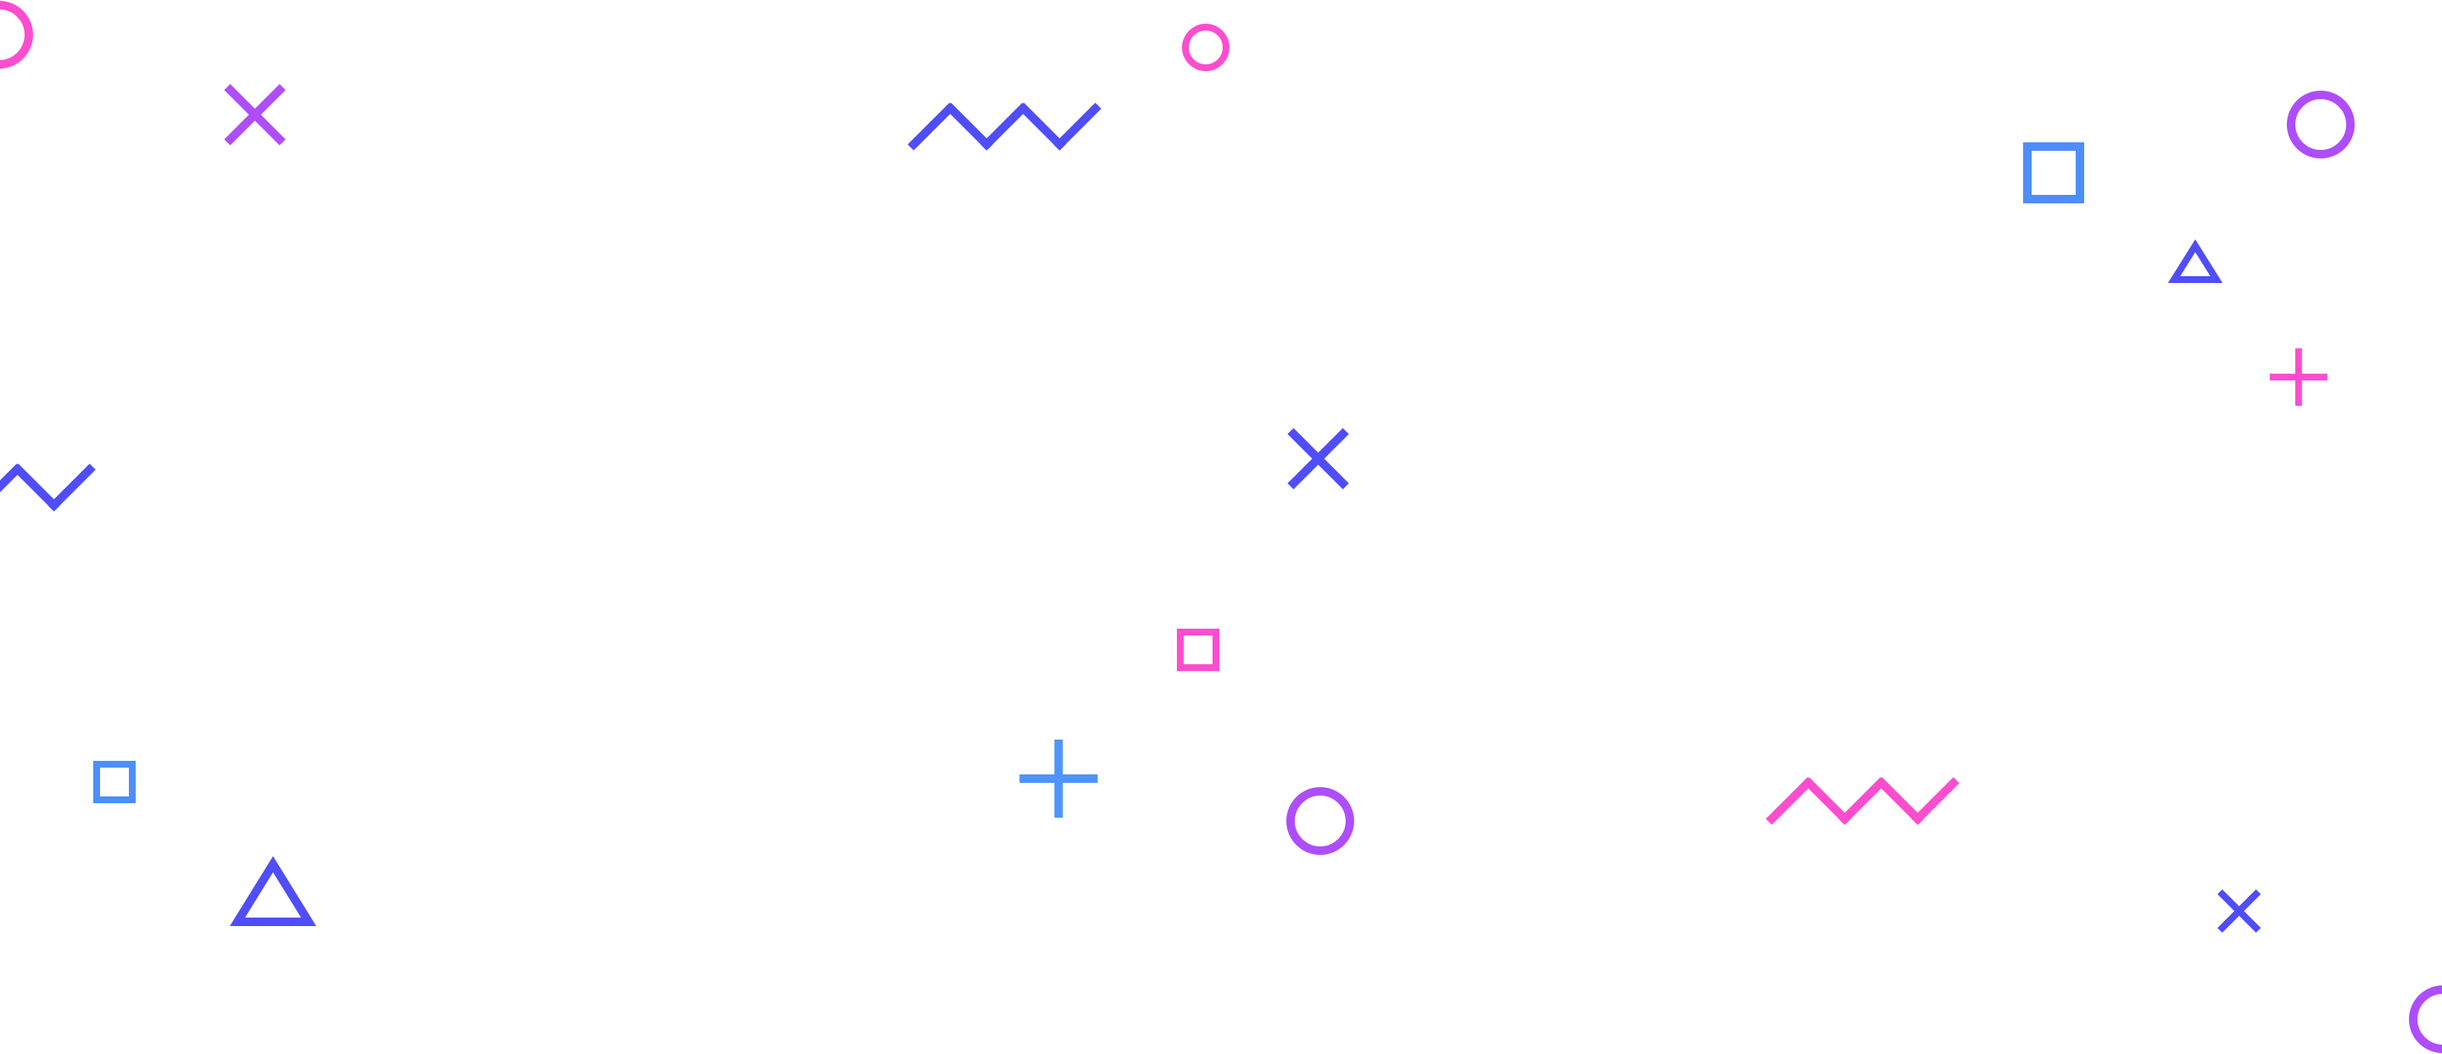
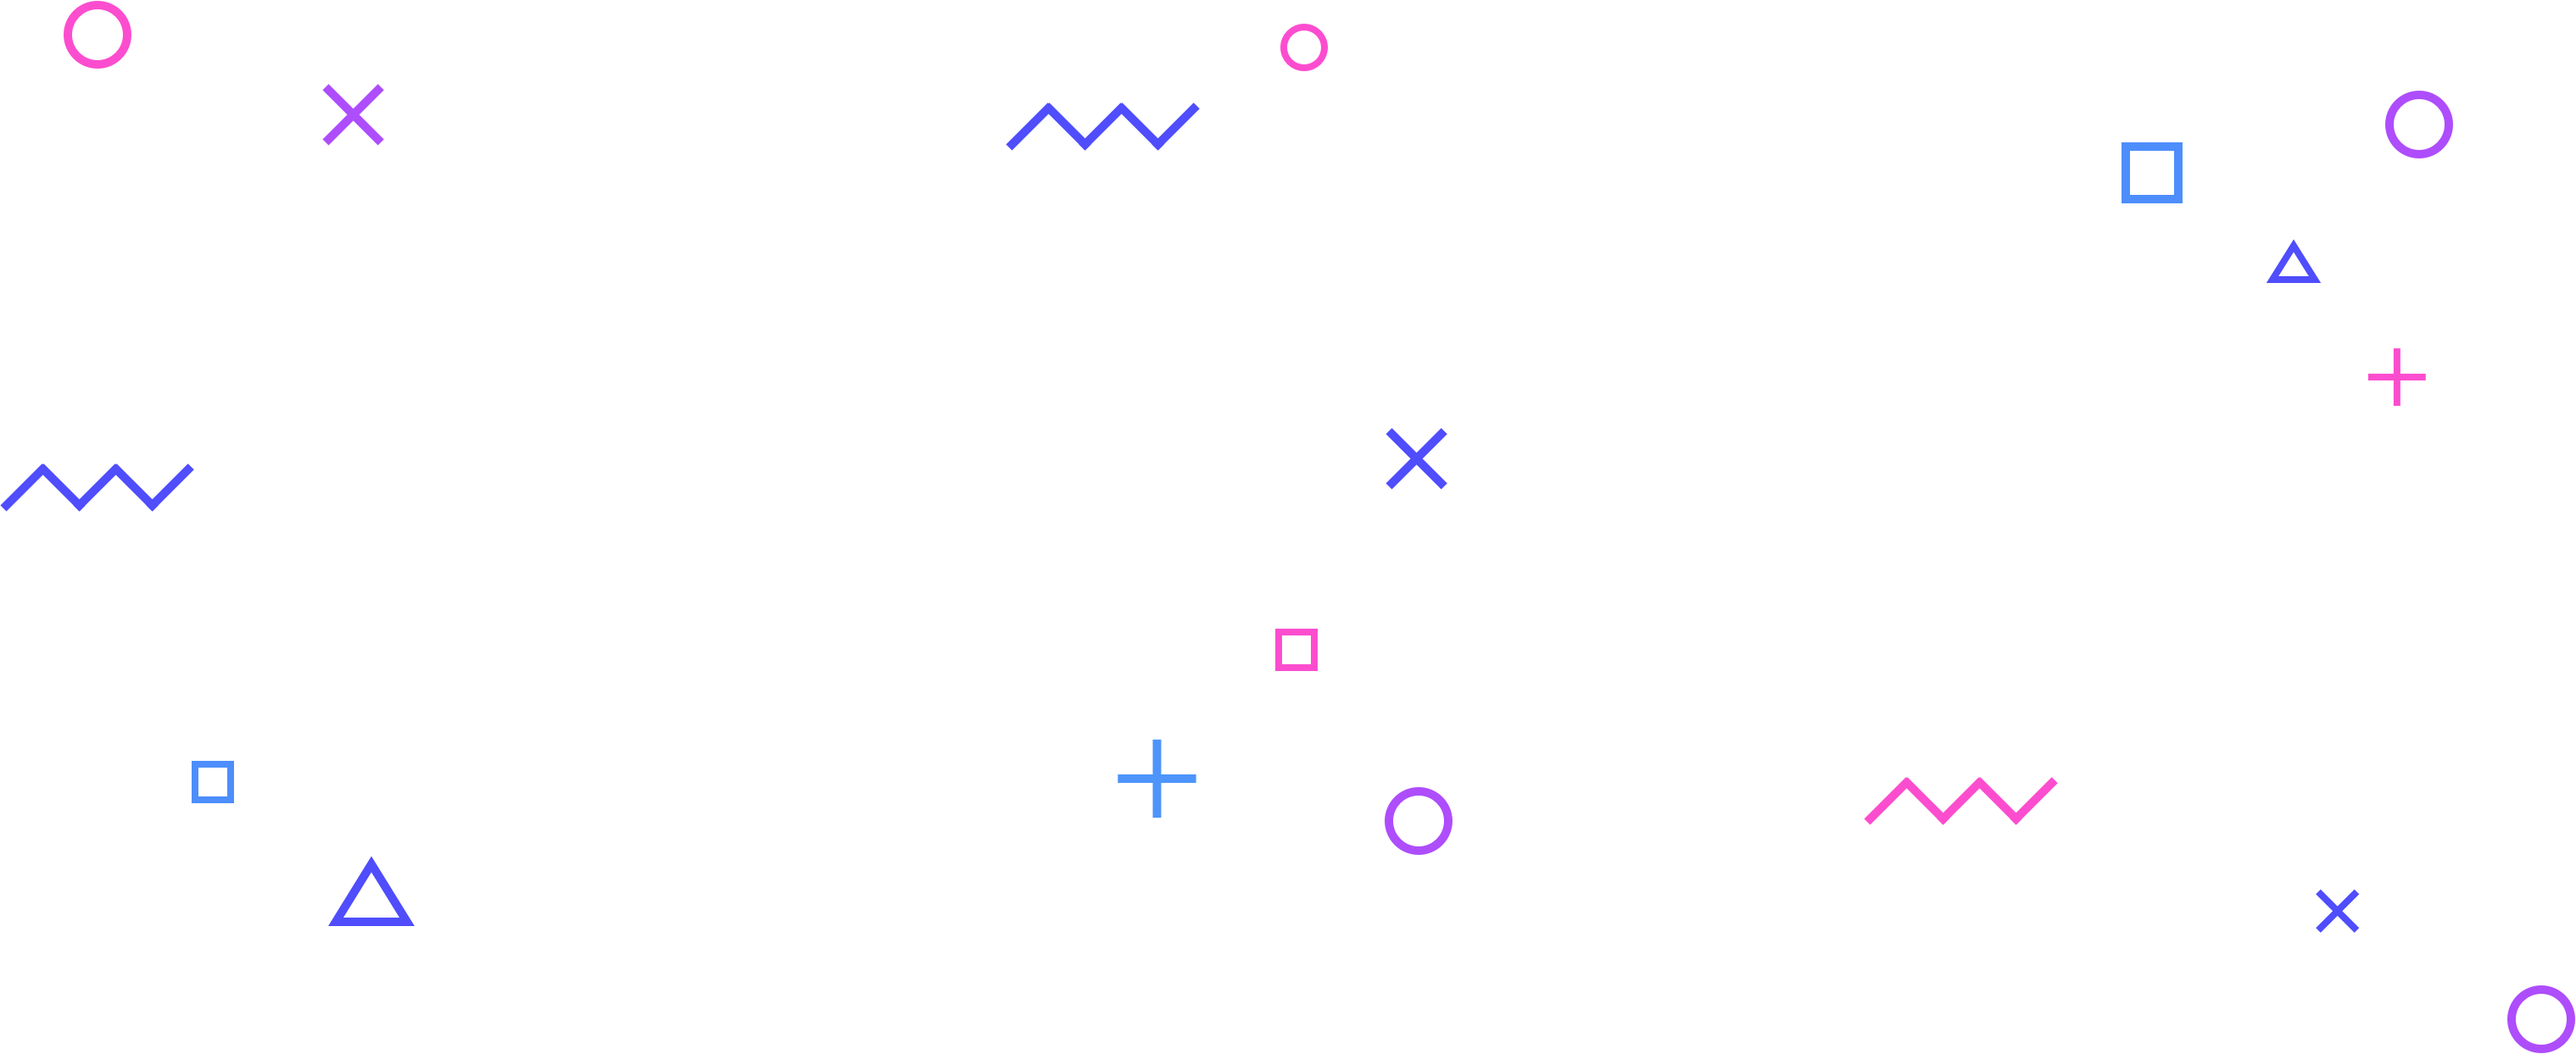
add bg shapes

diff --git a/app/css/style.css b/app/css/style.css
@@ -346,6 +346,14 @@ a:hover:before {
   padding: 40px;
   padding-top: 0;
   overflow: hidden; }
+  .header-bg {
+    display: none;
+    position: absolute;
+    top: 30px;
+    left: 50%;
+    transform: translateX(-53%);
+    height: 640px;
+    z-index: 2; }
   .header__logo {
     align-self: center;
     height: 30px;
@@ -505,6 +513,8 @@ a:hover:before {
   .header {
     padding: 40px 150px;
     padding-top: 0; }
+    .header-bg {
+      display: block; }
     .header__wrapper {
       height: 73px;
       position: fixed;
@@ -586,6 +596,15 @@ a:hover:before {
     line-height: 1.5;
     margin: 0; }
 
+.pricing-bg {
+  display: none;
+  position: absolute;
+  top: 60px;
+  left: 50%;
+  transform: translateX(-50%);
+  height: 776px;
+  z-index: 2; }
+
 .section-offer .section__text {
   padding: 0 50px; }
 
@@ -663,6 +682,8 @@ a:hover:before {
     font-size: 32px; }
   .section-offer .section__text {
     padding: 0 65px; }
+  .pricing-bg {
+    display: block; }
   .section-information .row {
     flex-direction: column;
     margin-left: -300px;

diff --git a/index.html b/index.html
@@ -12,6 +12,7 @@
 
   <body>
     <header class="header">
+      <img class="header-bg" src="app/images/shaped-pattern.png" alt="">
       <div class="header__wrapper" id="top">
         <div class="header__topbar" data-scroll-header>
           <a href="#top" class="header__link" data-scroll>
@@ -181,6 +182,7 @@
     </section>
 
     <section class="section section-pricing" id="pricing">
+      <img src="app/images/shaped-pattern-pricing.png" alt="" class="pricing-bg">
       <h2 class="section__title section__title--margin">Choose Your Pricing Plan</h2>
       <div class="row">
       <div class="box">

diff --git a/app/scss/sections/_header.scss b/app/scss/sections/_header.scss
@@ -5,6 +5,16 @@
   padding-top: 0;
   overflow: hidden;
 
+  &-bg {
+    display: none;
+    position: absolute;
+    top: 30px;
+    left: 50%;
+    transform: translateX(-53%);
+    height: 640px;
+    z-index: 2;
+  }
+
   &__logo {
     align-self: center;
     height: 30px;
@@ -257,6 +267,10 @@
   .header {
     padding: 40px 150px;
     padding-top: 0;
+
+    &-bg {
+      display: block;
+    }
 
     &__wrapper {
       height: 73px;

diff --git a/app/scss/sections/_section.scss b/app/scss/sections/_section.scss
@@ -61,6 +61,16 @@
   }
 }
 
+.pricing-bg {
+  display: none;
+  position: absolute;
+  top: 60px;
+  left: 50%;
+  transform: translateX(-50%);
+  height: 776px;
+  z-index: 2;
+}
+
 .section-offer {
   .section__text {
     padding: 0 50px;
@@ -184,6 +194,10 @@
     .section__text {
       padding: 0 65px;
     }
+  }
+
+  .pricing-bg {
+    display: block;
   }
 
   .section-information {
